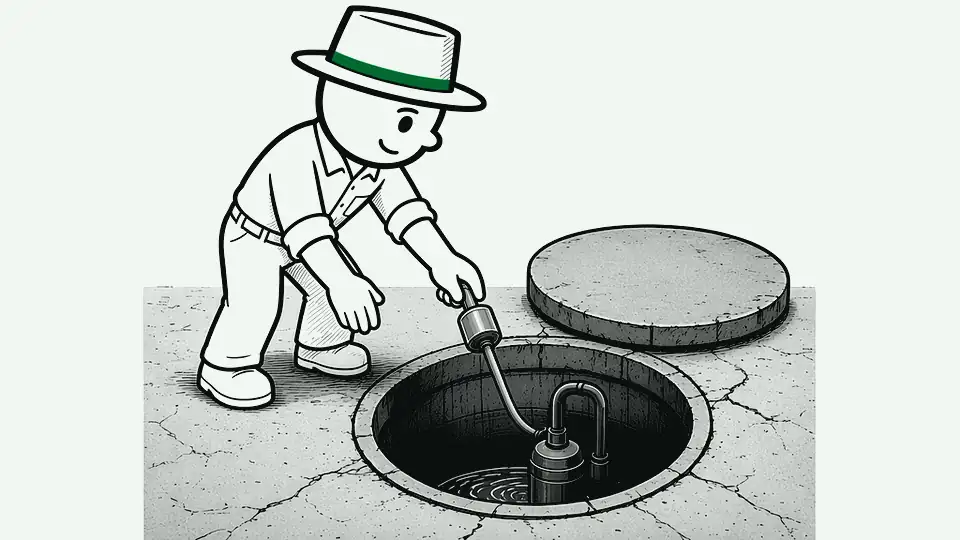
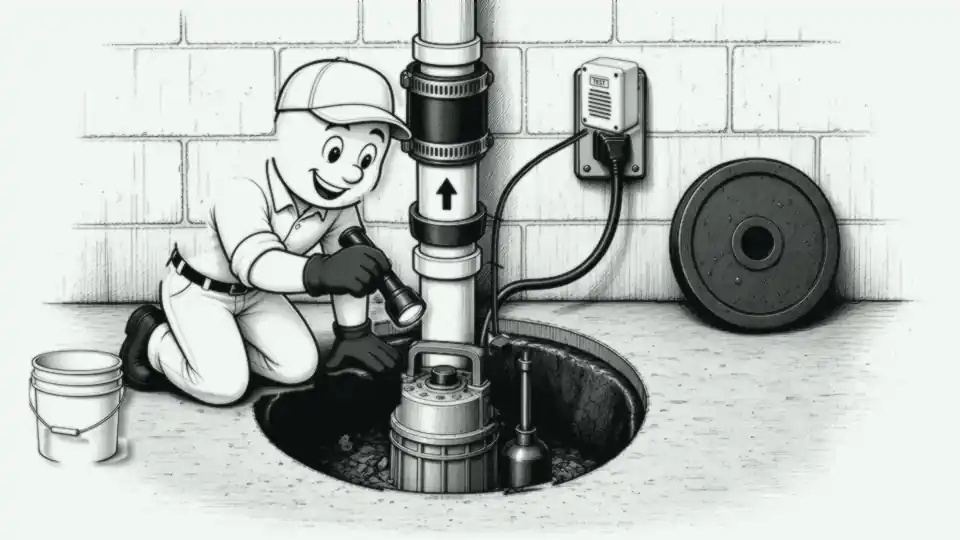
v7 sumptest: 8-frame plate-composited sump pump test/service (lift lid, flashlight on float + pit, bucket pour triggers pump, watch discharge cycle at pipe, check valve arrow up, high-water alarm TEST, lid back on, thumbs-up + check)

diff --git a/scenes/sumptest.js b/scenes/sumptest.js
@@ -1,1 +1,1 @@
-(window.EESceneData=window.EESceneData||{})["sumptest"]={"kind":"kf","w":960,"h":540,"title":"Sump pump tested and serviced","alt":"Unplugged, the pump comes out and its intake screen is brushed clean, the float is checked for free travel, a bucket of water is poured in, the pump kicks on, and the pit lid gets a test tag.","frames":[{"src":"scenes/kf/sumptest-1.webp?v=6","hold":560,"tw":{"x":-4},"o":[{"x":38,"y":47,"t":"word","text":"UNPLUGGED","s":32}]},{"src":"scenes/kf/sumptest-2.webp?v=6","hold":560,"tw":{"y":-6}},{"src":"scenes/kf/sumptest-3.webp?v=6","hold":560,"tw":{"x":5,"ms":240}},{"src":"scenes/kf/sumptest-4.webp?v=6","hold":560,"tw":{"sy":0.99,"ms":200},"o":[{"x":600,"y":441,"t":"swirl"}]},{"src":"scenes/kf/sumptest-5.webp?v=6","hold":760,"tw":{"y":8,"r":-1,"ms":300},"o":[{"x":110,"y":100,"t":"check"}]}],"placeholder":false};
+(window.EESceneData=window.EESceneData||{})["sumptest"]={"kind":"kf","w":960,"h":540,"title":"Sump pump tested and serviced","alt":"He lifts the lid off the sump pit, checks the float switch and the pit with a flashlight, pours a bucket of water into the pit so the float lifts and the pump kicks on, watches the discharge pipe while the pump cycles the water out, checks that the check valve's arrow points up, presses TEST on the high-water alarm, sets the lid back on the pit, and gives a thumbs-up.","frames":[{"src":"scenes/kf/sumptest-1.webp?v=7.2","hold":520,"tw":{"x":-3},"o":[{"x":38,"y":66,"t":"word","text":"LIFT LID","s":38}]},{"src":"scenes/kf/sumptest-2.webp?v=7.2","hold":500,"tw":{"y":-4},"o":[{"x":675,"y":39,"t":"word","text":"CHECK FLOAT","s":34}]},{"src":"scenes/kf/sumptest-3.webp?v=7.2","hold":560,"tw":{"x":4,"ms":240},"o":[{"x":675,"y":43,"t":"word","text":"TEST FILL","s":38}]},{"src":"scenes/kf/sumptest-4.webp?v=7.2","hold":600,"tw":{"sy":0.99,"ms":200},"o":[{"x":38,"y":66,"t":"word","text":"PUMP CYCLES","s":34}]},{"src":"scenes/kf/sumptest-5.webp?v=7.2","hold":500,"tw":{"y":-4},"o":[{"x":675,"y":41,"t":"word","text":"ARROW UP","s":36}]},{"src":"scenes/kf/sumptest-6.webp?v=7.2","hold":520,"tw":{"x":-4,"ms":240},"o":[{"x":38,"y":66,"t":"word","text":"ALARM TEST","s":36}]},{"src":"scenes/kf/sumptest-7.webp?v=7.2","hold":480,"tw":{"x":-3},"o":[{"x":675,"y":43,"t":"word","text":"LID ON","s":38}]},{"src":"scenes/kf/sumptest-8.webp?v=7.2","hold":1000,"tw":{"y":6,"r":-0.8,"ms":300},"o":[{"x":110,"y":100,"t":"check"}]}],"placeholder":false};

diff --git a/ai/NOW.md b/ai/NOW.md
@@ -28,13 +28,14 @@ Static Netlify site for Ellingson Plumbing (publish `.`, no bundler). Phone (218
 
 ## v7 (mascot-motion, PR #6 draft) — in progress
 - Mascot: illustrated plain-ink cap (no color, no mesh), ink on cream; green only on overlays (check mark, swirl, drips). Generator pipeline: /workspace/assets/kf6/kf6.py (SPEC7 = v7 scenes, raw frames in /workspace/assets/preview/v7/raw/<key>-N.jpg, 6-9 frames, explicit holds, last ~1000ms); off7.py measures fixture offset; check7.py runs sizes / homepage 0 scene requests / CTA / reduced motion / console errors.
-- Scenes on v7: clog (8 fr, 190KB), shutoff (6, 219KB), burst (7, 235KB), mainline (6, 214KB), cambranch (6, 186KB), sink (6, 230KB), cammain (8, 213KB), tankswap (9, 186KB), toilet (9, 228KB), tub (7, 196KB), flush (9, 176KB), nohot (9, 179KB), tankless (9, 232KB), tankcode (6, 224KB), sumpswap (9, 222KB). The other 19 scenes are still v6 illustrated keyframes (fedora). Encoder ladder adds a light smoothing pre-pass when dense hatching blows the 250KB budget.
+- Scenes on v7: clog (8 fr, 190KB), shutoff (6, 219KB), burst (7, 235KB), mainline (6, 214KB), cambranch (6, 186KB), sink (6, 230KB), cammain (8, 213KB), tankswap (9, 186KB), toilet (9, 228KB), tub (7, 196KB), flush (9, 176KB), nohot (9, 179KB), tankless (9, 232KB), tankcode (6, 224KB), sumpswap (9, 222KB), sumptest (8, 190KB). The other 18 scenes are still v6 illustrated keyframes (fedora). Encoder ladder adds a light smoothing pre-pass when dense hatching blows the 250KB budget.
 - Known v7 art nits (not regenerated): sink supply line gone in frame 6 and stop handle floats in 3/6, basin wrench used at the stop not behind the bowl; cambranch trap bend vanishes in frame 3; burst valve handle reads closed again after the reopen; mainline mascot shifts right in 5-6. cammain frame 7 (snug) reuses frame 1's wrench-on-plug art; tankswap is an electric heater (power at the disconnect), frames 6/8 reuse the 4/2 poses, power-on shares the finish frame, frame 3 drain valve has an extra ring where the hose fitting was drawn, mascot slightly smaller in frame 7. Tankswap frames are composited over an empty-room plate (comp_ts*.py, wip/ts-plate.jpg) with resting wrenches from wip/ts-toolsprite.jpg (comp_tstools.py). Toilet is composited the same way (comp7.py helpers, tbuild.py plate/fixture layers, t1-9.py; plate wip/t-plate*.jpg): the new toilet/tank/supply/stop are plate layers so they never redraw; only the mascot comes from each gen. Toilet nits: frames 1 and 3 share a similar kneel (different hand action); only the near bolt cap is drawn (far one hidden by the bowl); the angle stop is mostly behind the mascot in frames 2-3, 5, 8. Tub is composited the same way (ub7.py on the ubuild.py plate, wip/u-plate.jpg; mascots from u1-u7 gens): drain/W&O, flange, screws (from frame 3), water (5-7) and resting tools (level, dark drill, adjustable wrench, screwdriver, flashlight, hose draped over the rim in 6-7) are plate state; 0 px fixture offset. Tub nits: the mascot is a bit smaller in the standing finish frame 7; frame 6 crops his legs at the left edge. Flush is composited the same way (fbuild.py; plate wip/f-plate.jpg = ts-plate + a utility sink with HOT/COLD faucet; mascots from f1-f9 gens, frames 4-6 scale-fitted with scomp): disconnect OFF/ON, cold-inlet lever closed in 2-6, hot-tap stream 4-7, hose on the drain valve to the floor drain from 3, sediment flow at the grate in 5, screwdriver resting in the sink except in hand for 5-6 are plate state; 0 px fixture offset. Flush nits: frames 3 and 5 are both crouches right of the drain valve (different action); frames 5-6 crop his boots at the bottom edge; 4 and 1 crop slightly at the frame edges.
 - Nohot is composited on the flush room (nbuild.py on wip/f-plate.jpg; mascots from n1-n9 gens; tool sprites from wip/tools8.jpg): disconnect OFF/ON, upper access panel open 2-7 (drawn thermostat + element hex with two terminals; cover leaning by the sink, back on in 8-9), cold lever closed 3-5, hot tap 3-6, drain hose from 3, drain flow 3-4, multimeter resting from 3, element wrench + old crusty element from 5, ratchet with deep socket from 6, T&P dribble from the discharge pipe in 7 are plate state; 0 px fixture offset. Order: power off, test element, drain down, swap element, check anode, refill, test-lift T&P (after refill, so it actually discharges), power on, thumbs-up. Nohot nits: frame 2/9 mascots are scale-fitted with hand polygons (P2/P9); in frame 5 his cap hides the disconnect box; frame 7 boot overlaps the old element on the floor.
 - Tankless is composited on its own plate (kbuild.py on wip/k-plate.jpg = wall-mounted unit with display, top vent, cold/hot isolation valves with service ports, gas line with shutoff, outlet, utility sink; mascots from k1-k9 gens; bucket/pump sprites from wip/tools8.jpg): display blank 1-6 and 120 deg from 7, gas lever crosswise 2-6, iso levers crosswise 3-5, bucket + pump from 4, hoses pump->cold port and hot port->bucket in 4-5, hoses coiled on the floor from 6, tap stream + steam in 8 are plate state; 0 px fixture offset. Order: power off, gas off, water off, hoses on service ports, descale with vinegar pump, hoses off + water on, gas + power on (120), hot tap test, thumbs-up. Tankless nits: frame 2 mascot is shifted (-35,+35) onto the plate gas lever; in frame 4 his free hand holds the outlet cord; frame 5 free hand braces in the air; scene title kept as 'Tankless water heater installed' (job label) while the art shows the descale service.
 - Tankcode is composited on its own before/after plates (tc.py + tcbuild.py on cbuild.py's wip/c-before.jpg / c-after.jpg; mascots via silm.py silhouette masks in c1fix..c6fix, gens c1/c2-gen-tp/c2-gen-pan/c3/c4/c6; floor tool sprites from wip/tools9.jpg + ts-toolsprite.jpg): T&P discharge stub in 1 then the full copper discharge from 2, drain pan from 4 (slid in by hand in 3), expansion tank from 4, two straps from 5, disconnect ON in 6; flashlight on the floor 1-5 (in hand in 6), tape from 3, adjustable wrench from 5, nut driver in 6 are plate state; 0 px fixture offset. Order: power off, discharge to within 6 in of the floor (tape), pan, expansion tank on the cold line, straps, power on + flashlight inspection. Electric heater, so the disconnect stands in for a gas sediment trap/shutoff. Tankcode nits: the gens redrew the room, so frames 1/3/4 mascots are shifted/scale-fitted (frame 1 free hand braces on the wall under the disconnect; frame 4 standing mascot ~5% smaller than 1/6); discharge goes in before the pan (pan state reuses the plate's discharge-into-pan art, no ghost pipe).
 - Sumpswap is composited on its own basement plate (sbuild.py states on wip/s-empty/s-before/s-after; ss.py frames, mascots from s1-s9 gens via silmask/polygon masks; nut driver + scoop sprites from wip/tools9.jpg): old pump in the pit 1-2, cord unplugged on the floor from 2, old pump + cord on the floor from 4, debris bucket + scoop from 4, new pump + float from 5, check valve (arrow up) from 5, cord plugged in from 7, water in the pit in 8, lid moved from the wall onto the pit in 9 with the emptied water bucket beside the debris bucket; nut driver in hand in 2 and 6, on the floor 3-5 and 7-9; 0 px fixture offset (frame 7 gen shifted +28 px to the plate). Order: unplug, loosen the rubber coupling clamp, lift out, clean the pit, set the new pump with the float clear (check valve arrow up), tighten the clamp, plug in, bucket-fill test, lid on + thumbs-up. Sumpswap nits: frame 3 mascot is scale-fitted 1.16x (a bit larger, bent pose); frames 1 and 7 are both standing at the outlet (unplug vs plug-in + point); in frame 8 his head hides the plug at the outlet.
-- Contact sheet: /workspace/assets/preview/v7/contact-sheet.png (sheet7.py, one row per v7 scene).
+- Sumptest is composited on the sumpswap after-state (tsbuild.py plates wip/tp-pit.jpg / tp-wall.jpg = new pump + float, check valve arrow up, plug-in high-water alarm with TEST button and its sensor cord zip-tied down the pipe; st.py frames, mascots from st1-st8 gens via silmask): lid on the pit in 1, 7, 8 and leaning on the wall 2-6, water bucket at left (in hand pouring in 3), flashlight on the floor (in hand in 2 and 5), pour stream into the pit in 3 are plate state; 0 px fixture offset. Order: lift lid, flashlight on float + pit, bucket pour to trigger the pump, watch/listen at the discharge pipe while it cycles, flashlight on the check valve (arrow up), press TEST on the high-water alarm, lid back on, thumbs-up + check. Sumptest nits: frames 2 and 5 are both low crouches left of the pipe with the flashlight (kneel aiming into the pit vs squat aiming up at the valve); frames 4, 6 and 8 all stand right of the pit (point + listen, press TEST, thumbs-up); frames 6 and 8 mascots are scale-fitted 0.89x; frame 7's rear boot toe just touches the lid rim; the discharge cycle in 4 is carried by the pose + PUMP CYCLES label (no water drawn in the pipe).
+- Contact sheet: /workspace/assets/preview/v7/contact-sheet.png (sheet7.py, one row per v7 scene; docs/preview/v7/contact-sheet.png is a copy).
 - Player: reduced motion and ?frame= fetch only the frame shown. Registry still resolves key -> fallback "other" (scene keys unchanged).
 - Hero: assets/hero7/*.webp (cream ink on transparent, interior filled with --mp-paper so stage lines do not show through); hero-mascot.js keeps the v5 vector stage; plank is in the frames (board group empty). Reduced motion fetches only r.webp. Generator: /workspace/assets/preview/v7/hero/hero7.py.
 - Do not touch pricebook.js, app.js JOBS or the booking flow on this branch (order-flow-v2 owns it).
